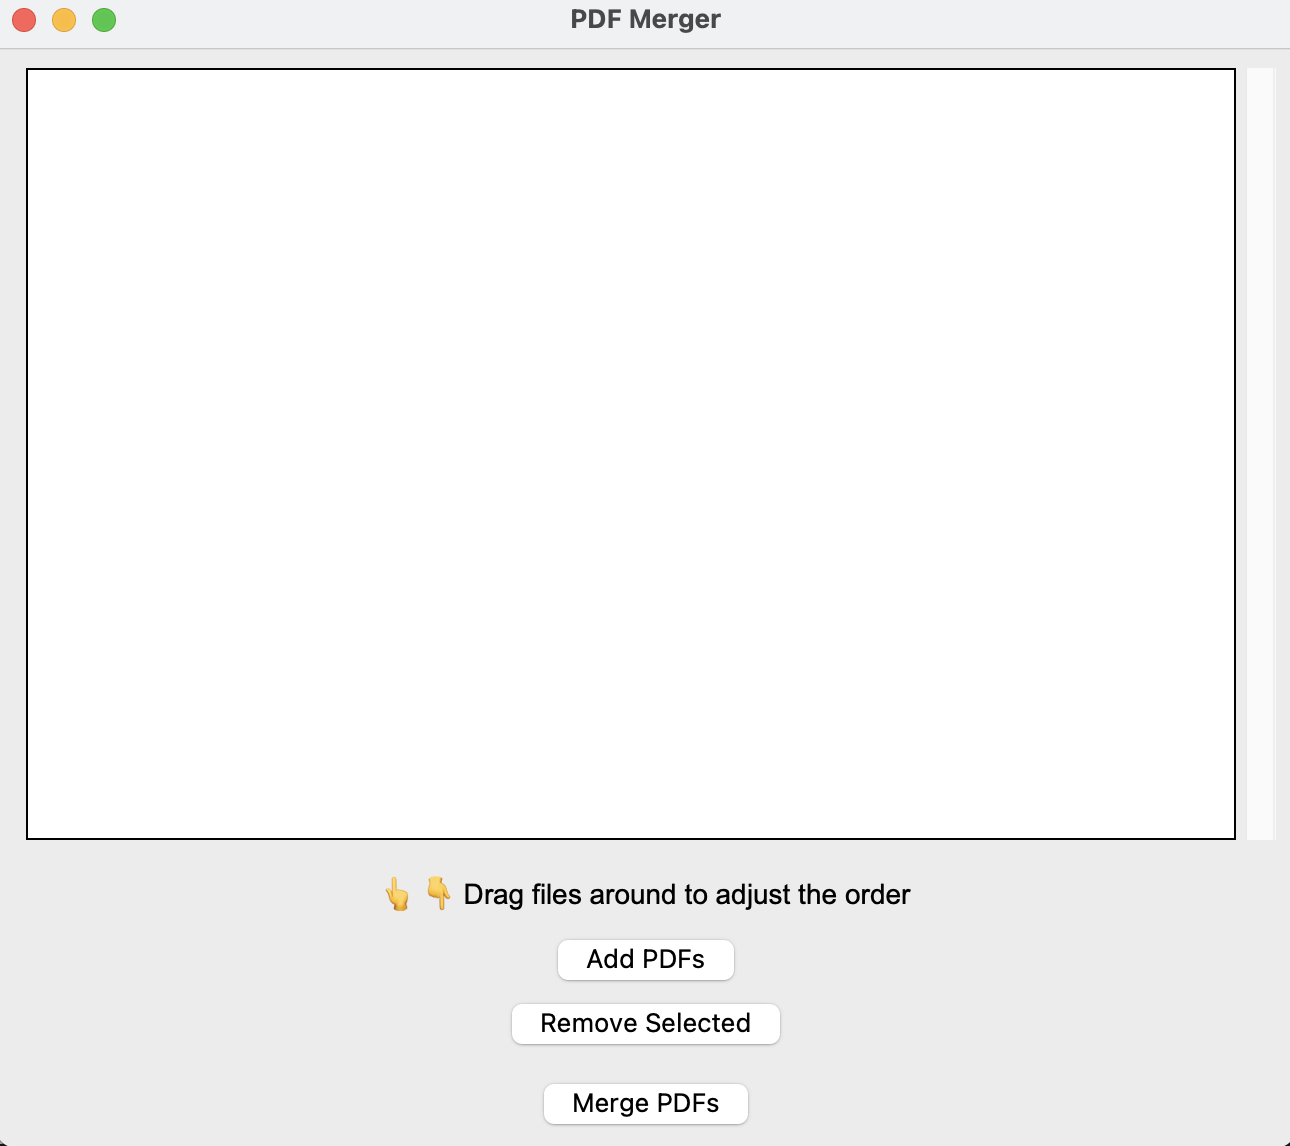
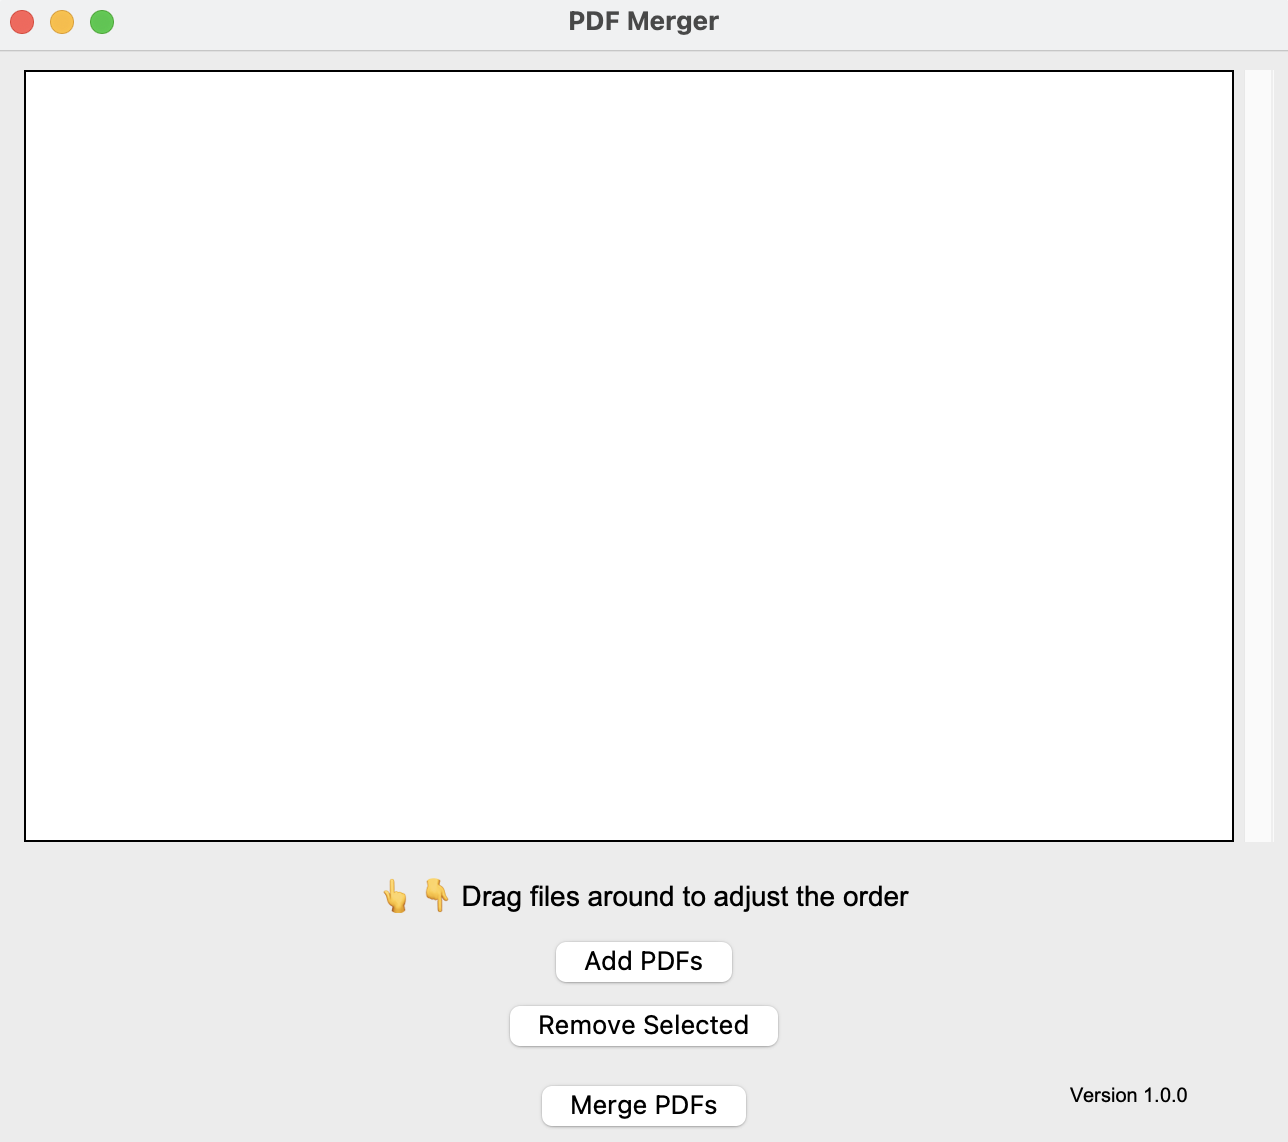
add version number

diff --git a/PDFMergerApp.py b/PDFMergerApp.py
@@ -53,6 +53,9 @@ class PDFMergerApp:
         )
         self.merge_button.pack(pady=10)
 
+        self.version_label = tk.Label(root, text="Version 1.0.0", font=("Arial", 10))
+        self.version_label.place(x=600, y=530, anchor='se')  # Positioning it at the bottom right
+
         self.dragged_item = None
 
     def center_window(self, width, height):
